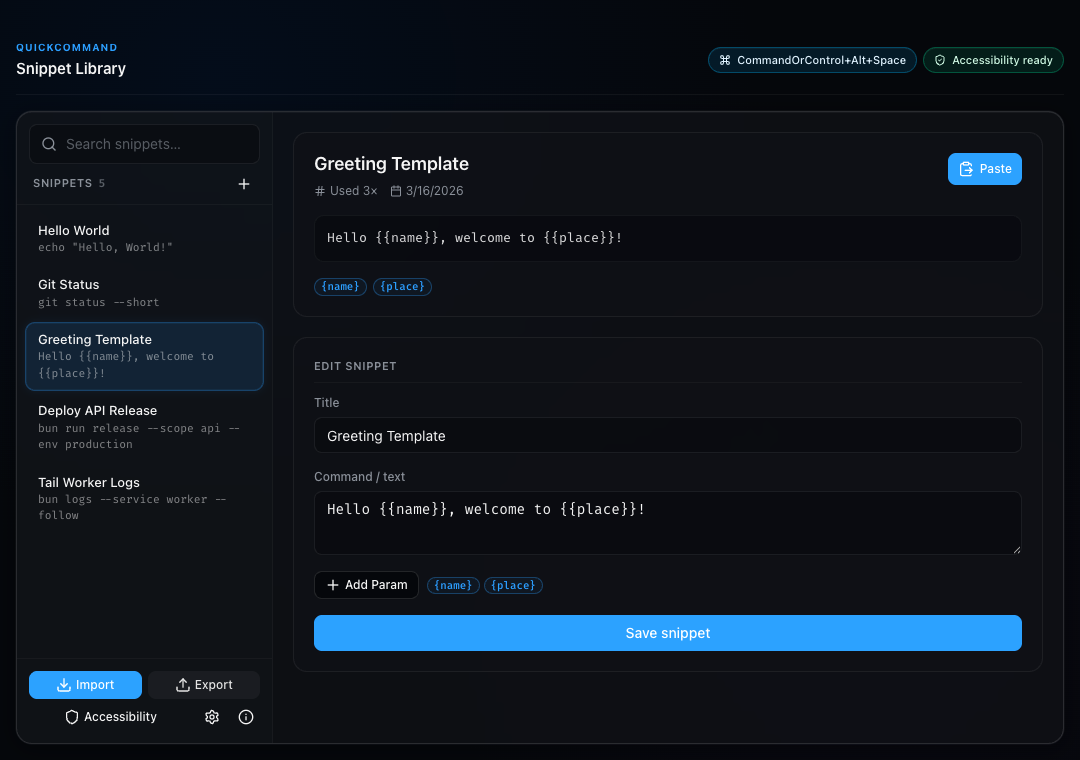
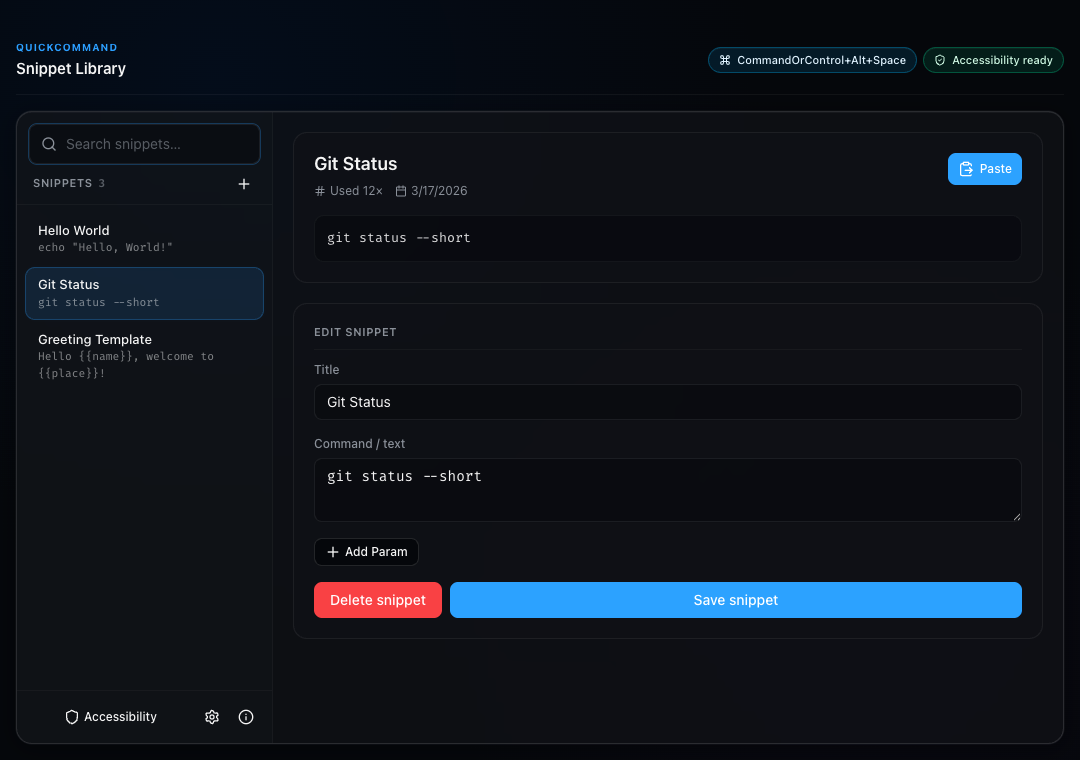
feat: improve library UX for 1.6.0

diff --git a/src/renderer/src/features/LibraryScreen.tsx b/src/renderer/src/features/LibraryScreen.tsx
@@ -93,6 +93,30 @@ export function LibraryScreen(props: ScreenProps) {
     setDetailView("about");
   }
 
+  async function handleDeleteSnippet() {
+    if (!props.editingId) {
+      return;
+    }
+
+    const title = props.draft.title.trim() || "this snippet";
+    const confirmed = window.confirm(
+      `Delete "${title}"? This action cannot be undone.`,
+    );
+
+    if (!confirmed) {
+      return;
+    }
+
+    const removed = await props.onRemove(props.editingId);
+    if (!removed) {
+      return;
+    }
+
+    setSelected(null);
+    setDetailView("snippet");
+    props.onNewSnippet();
+  }
+
   const pagination = getLibraryPaginationState(page, props.filtered.length);
   const visibleSnippets = getLibraryPageItems(
     props.filtered,
@@ -306,7 +330,7 @@ export function LibraryScreen(props: ScreenProps) {
 
       {/* ── Detail panel ── */}
       <main className="flex flex-1 flex-col min-w-0 overflow-hidden">
-        <ScrollArea className="flex-1">
+        <ScrollArea className="flex-1 min-h-0">
           <div className="p-5 flex flex-col gap-5">
             {/* Param input form overlay */}
             {paramSnippet ? (
@@ -389,11 +413,15 @@ export function LibraryScreen(props: ScreenProps) {
                 {/* Edit / New form */}
                 <div className="rounded-xl border border-border/50 bg-card/60 p-5 flex flex-col gap-3">
                   <h2 className="text-[11px] font-semibold text-muted-foreground uppercase tracking-wider pb-2 border-b border-border/30">
-                    {selected ? "Edit snippet" : "New snippet"}
+                    {props.editingId ? "Edit snippet" : "New snippet"}
                   </h2>
                   <SnippetForm
+                    deleteDisabled={props.saving}
                     draft={props.draft}
                     onChange={props.onDraftChange}
+                    onDelete={
+                      props.editingId ? handleDeleteSnippet : undefined
+                    }
                     onSubmit={props.onSubmitSnippet}
                     saving={props.saving}
                   />

diff --git a/src/renderer/src/components/SnippetForm.tsx b/src/renderer/src/components/SnippetForm.tsx
@@ -18,8 +18,10 @@ function validate(draft: SnippetInput): FieldErrors {
 }
 
 export const SnippetForm = memo(function SnippetForm(props: {
+  deleteDisabled?: boolean;
   draft: SnippetInput;
   onChange(value: SnippetInput): void;
+  onDelete?(): Promise<void>;
   onSubmit(event: React.FormEvent): Promise<void>;
   saving: boolean;
 }) {
@@ -209,9 +211,26 @@ export const SnippetForm = memo(function SnippetForm(props: {
         )}
       </div>
 
-      <Button className="w-full pressable" disabled={props.saving} type="submit">
-        {props.saving ? "Saving…" : "Save snippet"}
-      </Button>
+      <div className="flex items-center gap-2">
+        {props.onDelete ? (
+          <Button
+            className="pressable"
+            disabled={props.deleteDisabled}
+            type="button"
+            variant="destructive"
+            onClick={() => void props.onDelete?.()}
+          >
+            Delete snippet
+          </Button>
+        ) : null}
+        <Button
+          className={props.onDelete ? "flex-1 pressable" : "w-full pressable"}
+          disabled={props.saving}
+          type="submit"
+        >
+          {props.saving ? "Saving…" : "Save snippet"}
+        </Button>
+      </div>
     </form>
   );
 });

diff --git a/tests/unit/snippet-form.test.tsx b/tests/unit/snippet-form.test.tsx
@@ -1,0 +1,36 @@
+import { describe, expect, test } from "bun:test";
+import { renderToStaticMarkup } from "react-dom/server";
+import { SnippetForm } from "../../src/renderer/src/components/SnippetForm";
+import type { SnippetInput } from "../../src/shared/snippet-model";
+
+const draft: SnippetInput = {
+  title: "Git Status",
+  value: "git status --short",
+};
+
+describe("SnippetForm", () => {
+  test("renders a delete action only when editing an existing snippet", () => {
+    const createHtml = renderToStaticMarkup(
+      <SnippetForm
+        draft={draft}
+        onChange={() => {}}
+        onSubmit={async () => {}}
+        saving={false}
+      />,
+    );
+
+    const editHtml = renderToStaticMarkup(
+      <SnippetForm
+        deleteDisabled={false}
+        draft={draft}
+        onChange={() => {}}
+        onDelete={async () => {}}
+        onSubmit={async () => {}}
+        saving={false}
+      />,
+    );
+
+    expect(createHtml).not.toContain("Delete snippet");
+    expect(editHtml).toContain("Delete snippet");
+  });
+});

diff --git a/src/renderer/src/App.tsx b/src/renderer/src/App.tsx
@@ -247,9 +247,18 @@ export function App() {
     }
   }
 
-  async function removeSnippet(id: string) {
-    await window.quickCommand.snippets.remove(id);
-    await refresh(state.query);
+  async function removeSnippet(id: string): Promise<boolean> {
+    try {
+      await window.quickCommand.snippets.remove(id);
+      await refresh(state.query);
+      return true;
+    } catch (error) {
+      setState((current) => ({
+        ...current,
+        error: friendlyError(error, "Failed to delete snippet."),
+      }));
+      return false;
+    }
   }
 
   async function insertSnippet(id: string) {

diff --git a/tests/unit/library-screen-layout.test.ts b/tests/unit/library-screen-layout.test.ts
@@ -1,0 +1,15 @@
+import { describe, expect, test } from "bun:test";
+import { readFile } from "node:fs/promises";
+
+describe("LibraryScreen layout", () => {
+  test("keeps the main detail area scroll container min-height constrained", async () => {
+    const source = await readFile(
+      new URL("../../src/renderer/src/features/LibraryScreen.tsx", import.meta.url),
+      "utf8",
+    );
+
+    expect(source).toMatch(
+      /<main className="flex flex-1 flex-col min-w-0 overflow-hidden">\s*<ScrollArea className="flex-1 min-h-0">/,
+    );
+  });
+});

diff --git a/src/renderer/src/features/screen-props.ts b/src/renderer/src/features/screen-props.ts
@@ -23,7 +23,7 @@ export type ScreenProps = {
   onOpenUpdateDownload(): Promise<void>;
   onQueryChange(query: string): void;
   onQuit(): Promise<void>;
-  onRemove(id: string): Promise<void>;
+  onRemove(id: string): Promise<boolean>;
   onSaveSettings(patch: Partial<Settings>): Promise<void>;
   onShowLibrary(): Promise<void>;
   onSubmitSnippet(event: React.FormEvent): Promise<void>;

diff --git a/src/main/windows/library-window.ts b/src/main/windows/library-window.ts
@@ -7,6 +7,8 @@ export function createLibraryWindow(): BrowserWindow {
     width: 1080,
     height: 760,
     show: false,
+    resizable: false,
+    movable: true,
     backgroundColor: "#0C0E14",
     titleBarStyle: "hiddenInset",
     webPreferences: {
